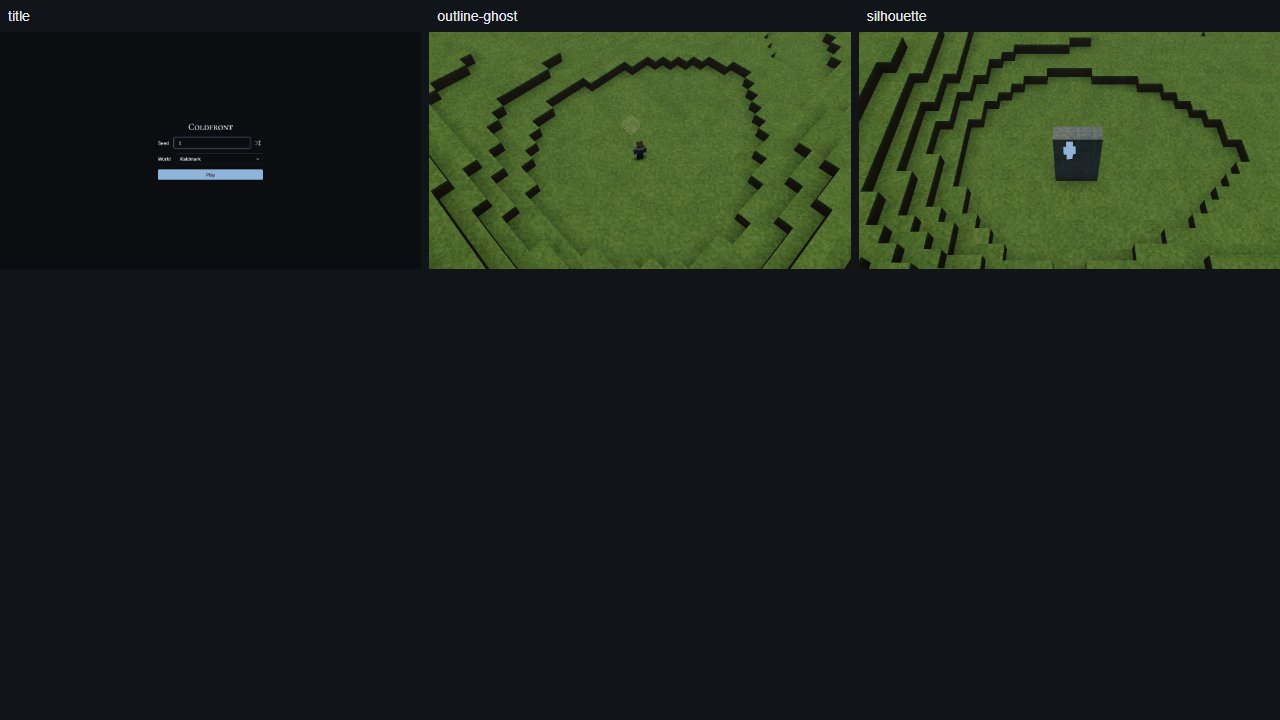
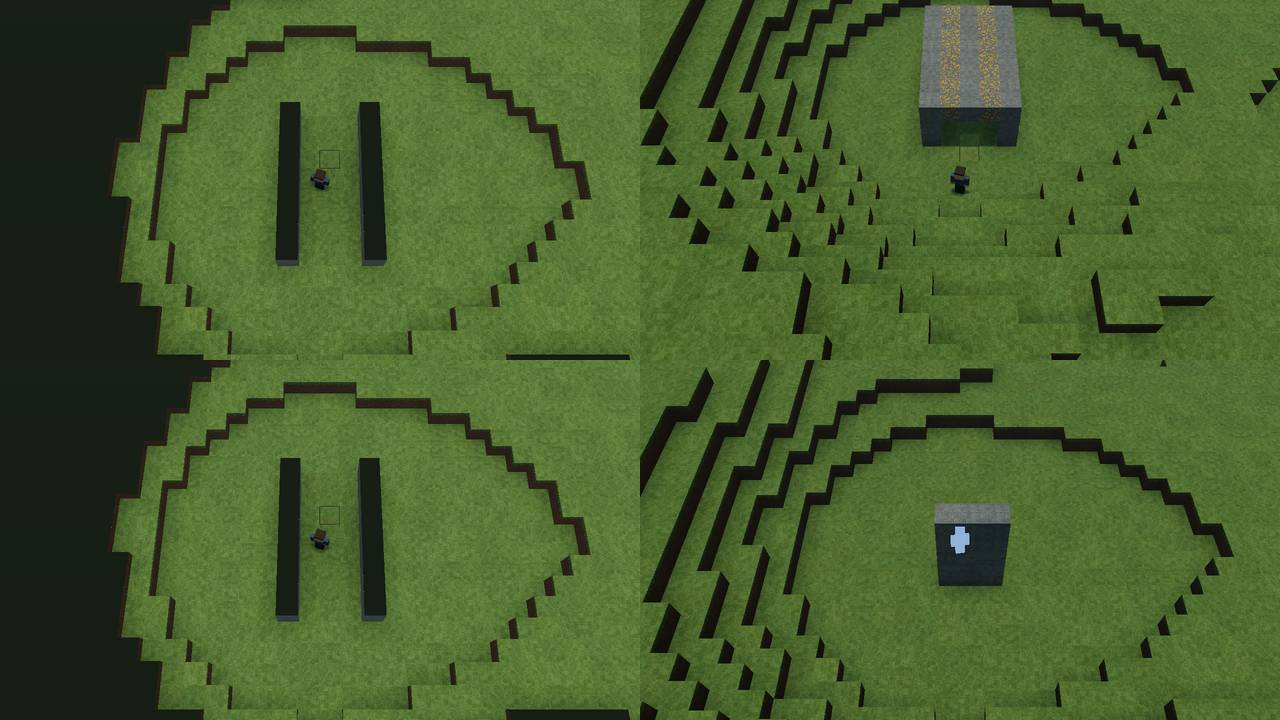
Report verified live camera optimization and cut behavior

diff --git a/docs/progress.md b/docs/progress.md
@@ -2,7 +2,7 @@
 
 **Current milestone:** 1 · The World
 **Current phase:** 1.3 · Terrain toolkit + Ibara (visual corrections and final release checks)
-**Playable link:** [dex.place/coldfront](https://dex.place/coldfront/) · [Interface gallery](https://dex.place/coldfront/?gallery) · [Release PR #18](https://github.com/dexnotavailable/coldfront/pull/18). Live game commit: `cc7b269` (generation 4, repeated coarse terrain lookup reuse; previous-generation edits remain stored separately). The unrelated `coldfront.pages.dev` site is not this game's preview.
+**Playable link:** [dex.place/coldfront](https://dex.place/coldfront/) · [Interface gallery](https://dex.place/coldfront/?gallery) · [Release PR #20](https://github.com/dexnotavailable/coldfront/pull/20). Live game commit: `f63d965` (generation 4, same-frame camera clearance reuse; current saved-world identity is unchanged). The unrelated `coldfront.pages.dev` site is not this game's preview.
 **Agent guide:** `AGENTS.md` (Codex and Claude Code both follow it). **Interface:** only what `docs/11-interface-catalogue.md` lists.
 
 ## Status board
@@ -11,7 +11,7 @@
 |---|---|---|
 | 1.1 Foundations | ✓ Complete, with recorded limits | 190 tests, check/build, clean Node22 build, complete UI lint and all-three-browser CI pass; accepted images/tools/save fixes published as d4c4c49. Public-site browser launch remains unavailable. |
 | 1.2 World plan | ✓ Complete, with recorded limits | Runtime, three-seed geography, atlas/slice, all-region travel and sixteen ungraded postcards accepted; 310 tests, check/build, complete UI lint, clean Node22 build and all-three-browser CI pass. Live as 18a975d. [Phase plan](plans/phase-1-2.md). |
-| 1.3 Terrain toolkit + Ibara | In progress | [Reviewed integration plan](plans/phase-1-3.md); generation `b7facdf…` is live as `cc7b269`. Repeated coarse lookup reuse improves the fixed cold dense comparison 9.05% / 9.93%, with repeat-request regressions retained. 863 tests, check/build, exact clean/site builds, fourteen-stage production journey, CI and public HTTP pass. No new formal score: two earlier primitive-control grades of 9 fail the unchanged ≤8 calibration gate. Earlier a82 scores 16/15 remain historical. Mandatory HELL/calibration/three-seed visual acceptance remains open. The last full benchmark belongs to b8/d3b3; six aggregate kernel metrics exceeded later targets there. |
+| 1.3 Terrain toolkit + Ibara | In progress | [Reviewed integration plan](plans/phase-1-3.md); unchanged generation `b7facdf…` is live as `f63d965`. Same-frame camera clearance reuse removes a duplicate query; it is not a verified Radeon FPS fix. 868 tests, check/build, exact clean/site builds, camera/cut fixture, fourteen-stage production journey, CI and public HTTP pass. Earlier cold dense comparisons improve 9.05% / 9.93%, with repeat regressions retained. No new formal score: two earlier primitive-control grades of 9 fail the unchanged ≤8 calibration gate. Earlier a82 scores 16/15 remain historical. Mandatory HELL/calibration/three-seed visual acceptance remains open. The last full benchmark belongs to b8/d3b3; six aggregate kernel metrics exceeded later targets there. |
 | 1.4 Far terrain | ☐ Specified, not implemented | LOD0–LOD6, full-height column tiles beyond LOD1, ~16 km maximum reach at altitude; acceptance includes at least 5 km of real terrain. 04 §13.5 / roadmap 1.4. |
 | 1.5 Kurogane + Selva | ☐ | |
 | 1.6 Fantasy regions | ☐ | |
@@ -23,7 +23,11 @@
 ## Current session
 **16 October 2026 · Codex · `codex/phase-1-3-camera-clearance-20261016`**
 
-**Camera clearance work in verification:** the camera normally queried terrain height twice at its final position in a single frame. The candidate reuses that same-frame result and still samples every adjusted position, including the sixteenth adjustment and 85-degree cap. All **868 tests / 103 files pass in 291.640 s**, as do the earlier 24 focused tests, client/tools types and final formatting. The initial formatting-only failure remains recorded. Four fresh HUD images pass root/independent Astra review and 327 hash checks, and their six evidence files are promoted. Final `check`, complete UI lint and build pass in **16.866 / 5.769 / 3.724 s**; UI lint reports 106 states, zero missing rows and 23 bindings. Native camera/cut and production verification remain pending. No cross-frame cache, camera rule, generator, view distance or rendering effect changes. This source is not yet live. [Measurement and limits](reports/camera-clearance-cost.md).
+**Camera clearance optimization published as `f63d965`:** the camera now reuses its final-position terrain height within one frame, retaining every adjusted-position query, the sixteenth-adjustment check and 85-degree cap. All **868 tests / 103 files pass in 291.640 s**, plus 24 focused tests, client/tools types and final formatting. Four fresh HUD images pass root/independent Astra review and 327 hash checks. Final `check`, complete UI lint and build pass in **16.866 / 5.769 / 3.724 s**; UI lint reports 106 states, zero missing rows and 23 bindings. No cross-frame cache, camera rule, generator, view distance or rendering effect changes. [Measurement and limits](reports/camera-clearance-cost.md).
+
+**Exact release proof:** the physical clean install/default build/site build pass in **6.302 / 3.402 / 2.016 s**, and [CI 38786571187](https://github.com/dexnotavailable/coldfront/actions/runs/38786571187) passes including all three browsers. The production journey passes all fourteen stages in a **272.096 s receipt interval**; root and fresh Astra open every original, and 850 hash comparisons plus 431 state/structure checks pass. Placement, immediate replay/reload persistence, breaking, movement, Ibara views, HELL-1/Escape and malformed-catalogue recovery pass. Zero errors, bad responses or external requests; four ReadPixels warnings and full cleanup are retained. The HELL-1 PNG is byte-identical to the preceding live release. Publication receipt **`76247e5d-f5f7-4a44-99da-9824e8eb172e`** and public readback at **19:11:35.886 UTC** confirm eleven hashes and isolation headers. Public-browser gameplay remains separately unavailable.
+
+**Camera/cut fixture passes after correcting its setup:** a no-input observation confirms the old tunnel fixture starts the avatar on its roof at Y9 because it supplies edits but no saved position. The corrected wrapper saves the same tunnel edits and a safe interior position through the ordinary persistence API before unchanged startup validation. The native assertions, timings, driver, geometry and product source remain unchanged. Its six opened images show cut7.5/tilt70 inside, the full roof on exit and the cut on reentry. Root/peer acceptance includes 249 hash checks; zero errors, four retained warnings and complete cleanup. All three failed setup attempts, the HTTP-header diagnosis and the spawn observer remain preserved.
 
 **A real synchronous cost, with a bounded scope:** at the saved Ibara Escape camera position with chunks deliberately absent, one real `ChunkStore.surface` call takes 506.514 ms and its exact repeat 2.675 ms; both return height24 and each scans183 voxels. The seed-1 plan is reused, generation workers are mocked and never requested, and no GPU is involved. This demonstrates a CPU stall in that forced fallback condition. It does not establish ordinary browser incidence, Radeon FPS, or that same-frame reuse fixes the large first-call cost. Surface currently prepares its point area even when chunks are resident; the existing conservative-bound API is a possible later exact alternative, but its own feature preparation cost remains unmeasured.
 
@@ -378,8 +382,8 @@ The following records describe the completed phase 1.1 tooling and acceptance.
 
 ## Known issues and next
 
-- Current live release **cc7b269 / generation b7facdf** passes 863 tests, check/build, exact clean/site builds, CI, the fourteen-stage production journey and public HTTP hashes/headers. Phase 1.3 remains incomplete: current formal calibration is invalid; the older a82 scores 16/15 remain historical. The compiled cold-loading comparison improves, while repeated requests regress; no browser/FPS fix is established. The last complete regional benchmark and three-seed terrain reports remain explicitly bound to the earlier source.
-- Next: identify a source-supported correction to visible thorn shape or grounding, with a discriminating local proof before a full-world render. The [basalt-layer trial](reports/basalt-layer-study.md), [column-filter trial](reports/column-candidate-study.md) and [caldera-gully trial](reports/caldera-gullies-study.md) are parked. The isolated camera fallback tested seven additional views but selected the original; it is parked, without wider caps or a seed-3 repeat. Resolve calibration interpretation before new formal terrain acceptance. Two control grades fail at 9/20; both are preserved, and source/receipt audit finds the fixture conformant. No additional reviewers for that unchanged candidate, threshold change or terrain-bar change follows. The full-sky, dry-rim and scree directions remain parked. Far terrain stays phase 1.4; finite loading can expose tips whose parents are outside the loaded columns.
+- Current live release **f63d965 / unchanged generation b7facdf** passes 868 tests, check/build, exact clean/site builds, CI, camera/cut fixtures, the fourteen-stage production journey and public HTTP hashes/headers. Phase 1.3 remains incomplete: current formal calibration is invalid; the older a82 scores 16/15 remain historical. Same-frame camera reuse is verified; a browser/Radeon FPS fix is not. The measured 506 ms cold fallback remains unresolved. An edit-only across-frame cache is not selected: exposed mutable maps and fractional cut heights require a stronger invalidation contract. The last complete regional benchmark and three-seed terrain reports remain bound to their earlier source.
+- Next: validate one frozen yaw-only composition proposal motivated by the actual left-clipped hooked owner, using the unchanged ordinary gates. It permits one Normal capture only if validation passes; no wider camera search or generator tweak follows a failure. The [root-grounding](reports/main-root-grounding-study.md), [basalt-layer](reports/basalt-layer-study.md), [column-filter](reports/column-candidate-study.md) and [caldera-gully](reports/caldera-gullies-study.md) trials remain parked. The earlier seven-view camera fallback remains closed. Resolve calibration interpretation before new formal terrain acceptance. Two control grades fail at 9/20; both are preserved, and source/receipt audit finds the fixture conformant. No additional reviewers for that unchanged candidate, threshold change or terrain-bar change follows. The full-sky, dry-rim and scree directions remain parked. Far terrain stays phase 1.4; finite loading can expose tips whose parents are outside the loaded columns.
 - The current main-world save identity is `4:b7facdfdcb615938ecfc1e693c6b7cbe16494ca1a80b2c67ef7e59689b261794`. Earlier records remain stored separately. The current release journey verifies placement/breaking and persistence through replay/reload. Main/test worlds, seeds and discovery memory remain separate; Clear my edits affects only the current world's edits.
 - The watchtower, cold smithy and Hearthlands house are reusable library content, with accepted browser evidence and no live registration. The house and smithy include their reviewed presentation parts. The wolf horizontal stance correction remains isolated; full contact behaviour, terrain adaptation and gameplay integration remain open. The giant-tree gentle-slope study and single-root burial correction pass bounded appearance review; the preserved King and second giant tree retain their earlier study boundaries. None is live integrated content.
 - GPU uploads currently cap eight chunk results per frame, rather than eight individual meshes. CPU mesh arrays remain for context restoration; freeing them after upload is still pending. The out-only cold diagnostic now records complete worker-stage/cache timings; the normal postcard receipt still reports total duration.
@@ -389,14 +393,14 @@ The following records describe the completed phase 1.1 tooling and acceptance.
 - The build reports a large main chunk (about 1,056 kB, 281 kB gzip); optimization follows measurements. The current check has 79 warnings and two information notes, with no errors. Most warnings are controlled test/gallery assertions and motion CSS overrides.
 - The documented Pages name was corrected: coldfront.pages.dev belongs to another website. Ordinary build remains compatible with Pages; the actual release uses the owner's existing site mount.
 
-## Try this (live verified increment `cc7b269`)
+## Try this (live verified increment `f63d965`)
 
 1. Open [COLDFRONT](https://dex.place/coldfront/), choose **Kaldmark** and press **Play**. Walk with **W A S D**; zoom with the wheel, turn with **← →**, and tilt with **↑ ↓**.
 2. Double-tap **Space** to fly. Use **Space** to rise and **Shift** to descend. Double-tap **W** to sprint when playing in a window.
 3. Choose a hotbar block with **1–9**. Left-click to break, right-click to place; open the block palette with **E**.
 4. Dig below the surface to try the automatic overhead cut. Press **F3** for debug information and **F4** for time of day, fog, shadows and fly speed.
 5. Press **Esc** to pause or return to the title; **F2** saves a screenshot and **F11** toggles fullscreen. Browse the [interface gallery](https://dex.place/coldfront/?gallery).
-6. Leave a placed block in the world, reload, and press **Play** with the same seed to check your saved edits. This release uses a new save identity for the generator-source change, even though the compared terrain is identical; previous-generation edits remain stored separately.
+6. Leave a placed block in the world, reload, and press **Play** with the same seed to check your saved edits. This camera-only release keeps the current saved-world identity; your edits from the preceding live build remain available. Older-generation records remain stored separately.
 7. In **F4 → Go to region**, visit **Ibara** and compare **Normal**, **Clay** and **Features**. Open **F4 → Go to postcard** and choose **Ibara 2** for the forest or **Ibara 3** for the caldera. Look for the clearer horizontal rock layers on broad thorn faces, alongside the existing forks. Loading is slow; the caldera foreground and roots still need work. Press **Escape** to return to the overhead view.
 8. Open the map with **M**, choose a spot and travel. In **F4**, use **Go to region** to compare Shirogane, Kurogane and the Sundered Isles. Discovery cards appear once per saved world identity. Switch to the test world from the title for the smaller sandbox.
 

diff --git a/docs/reports/camera-clearance-cost.md b/docs/reports/camera-clearance-cost.md
@@ -1,12 +1,12 @@
 # Camera clearance cost
 
-The camera performs an avoidable repeated terrain-height query in a normal frame. A small candidate reuses that final-position measurement within the same camera step. It is under verification and is not yet published.
+The camera now reuses its final-position terrain-height measurement within the same camera step, avoiding a repeated query in a normal frame. This is published as `f63d9659525dd09e8db4369d5edf4becb04a1458` at [dex.place/coldfront](https://dex.place/coldfront/).
 
 ## Source behavior and preservation
 
 `OverheadCamera.step` previously called `surface` in the clearance-loop condition and then again at the same final position for its vertical lift. A normal no-adjustment frame therefore made two identical calls. The sixteen-adjustment exit is different: its final position still needs a new measurement.
 
-The candidate samples its initial pose once, samples each adjusted pose once and uses the last height for the final lift. No height survives the frame. The sixteen-adjustment limit, 85-degree tilt cap, six-metre clearance, focus lift, requested distance, automatic cut and all motion curves remain intact. The capped path still performs seventeen queries; a normal clear frame performs one instead of two.
+The change samples its initial pose once, samples each adjusted pose once and uses the last height for the final lift. No height survives the frame. The sixteen-adjustment limit, 85-degree tilt cap, six-metre clearance, focus lift, requested distance, automatic cut and all motion curves remain intact. The capped path still performs seventeen queries; a normal clear frame performs one instead of two.
 
 Five new behavior tests cover a clear pose, a ledge requiring adjustment, the iteration limit, the tilt cap and changed ground/cut on subsequent frames. Together with the existing chunk-store tests, **24 tests pass** in2.431s; client/tools types pass in2.798/5.819s. A wrapping-only formatter failure is preserved and corrected. Final format passes. Isolated evidence is in `D:/Dex/Temp/coldfront-camera-clearance-6993558/out/camera-clearance/root-validation/`.
 
@@ -31,8 +31,22 @@ The measurement demonstrates blocking CPU work under the **forced missing-chunk 
 
 The integrated source passes **868 tests across 103 files in 291.640 s**. Four fresh native/derived HUD images have been opened by root and independent Astra: the target outline, faint Sand placement ghost and blue avatar silhouette remain visible. All327 independent hash checks pass, covering94 source files per case and the native, candidate and prior evidence. Six evidence files are promoted. Four ReadPixels warnings remain; capture errors are zero. Evidence: `out/phase13/camera-clearance-hud-prep/runs/2026-10-15T18-22-32-584Z-eab935/`.
 
-The first unchanged smoke/drive invocation passes smoke and captures outline/flight, then times out waiting for a tunnel cut. That failed46.777s run is retained under `out/phase13/camera-clearance-release/drive-runs/2026-10-15T18-19-48-760Z/`. Root opens its three images. Source inspection identifies a setup mismatch: ordinary `run.ts` serves the UI shell, whereas only `dev/harness.ts` reads the `scene` query and seeds the tunnel through persistence. No camera failure is established by that missing fixture. A separate wrapper is being prepared to serve the existing harness and run the unchanged drive assertions with new output paths; no old evidence is overwritten.
+The first unchanged smoke/drive invocation passes smoke and captures outline/flight, then times out waiting for a tunnel cut. That failed 46.777 s run is retained under `out/phase13/camera-clearance-release/drive-runs/2026-10-15T18-19-48-760Z/`. Root opens its three images. Source inspection identifies a setup mismatch: ordinary `run.ts` serves the UI shell, whereas only `dev/harness.ts` reads the `scene` query and seeds the tunnel through persistence. No camera failure is established by that missing fixture. A separate wrapper then serves the existing harness and runs the unchanged drive assertions with new output paths; no old evidence is overwritten.
 
-The corrected harness route then fails its unchanged graphics preflight before producing an image; that separate V2 failure is preserved. An independent source review and a separate HTTP-only probe identify the missing response headers: the custom harness HTML has neither COOP nor COEP, while the ordinary page has both. Vite's later header middleware is bypassed by the early custom response. Both V2 browser and server close. A narrow response-header correction is being prepared; neither failure authorizes relaxing the camera or graphics assertions.
+The corrected harness route then fails its unchanged graphics preflight before producing an image; that separate V2 failure is preserved. An independent source review and a separate HTTP-only probe identify the missing response headers: the custom harness HTML has neither COOP nor COEP, while the ordinary page has both. Vite's later header middleware is bypassed by the early custom response. Both V2 browser and server close. A narrow response-header correction resolves that precondition; neither failure authorizes relaxing the camera or graphics assertions.
 
-Final `check`, complete UI lint and build pass in **16.866 / 5.769 / 3.724 s**. UI lint reports 106 states, zero missing current rows and 23 bindings. Camera/cut fixture acceptance, the exact production journey and clean-checkout/release checks remain open before publication. Generator data and saved-world identity are unchanged.
+The next attempt passes its headers but still waits for a cut that cannot activate: a separate no-input observer confirms feet at Y9 on top of the Y8 roof, with 72 legacy edits and no preferred pose. Production startup correctly chose the edited surface. V4 corrects only the fixture bootstrap, saving the unchanged tunnel edits and safe floor pose under the same full test identity before importing the unchanged harness. The native destination still validates that pose; no body/camera setter, changed driver assertion, altered wait or geometry change is used.
+
+V4 passes all six native captures in a **25.202 s wrapper interval**. Root and independent Astra open every image. Actual endpoints show feetY6/cut7.5/tilt70 inside, cutnull/tilt55 outside, then cut7.5/tilt70 on reentry. The wall silhouette remains active without a cut. All 249 hash checks match, including 192 sources, 37 preserved prior files and 13 native outputs. Application errors are zero, four ReadPixels warnings remain, and browser/server close. This is endpoint and input-fixture proof, not continuous playback or FPS. All failed V1–V3 evidence remains intact under `out/phase13/camera-clearance-release/`; the passing run is `drive-v4/runs/2026-10-15T18-50-49.323Z-4dadc3f6-f982-491f-a1c5-829b6295d0a3/`.
+
+[Opened contact sheet](../postcards/wip/ui.jpg): upper left is inside the tunnel, upper right is outside, lower left is reentry, and lower right is the silhouette. The four full frames are resized equally with no crop; the authoritative native PNGs remain preserved. The 1280×720 JPEG is 105,573 bytes and keeps the complete WIP image set at 961,859 bytes, below its 1 MB limit. An earlier JPEG85 encoding exceeded that unchanged limit and wrote no replacement; the final report sheet uses JPEG70.
+
+## Publication and remaining limits
+
+Final `check`, complete UI lint and build pass in **16.866 / 5.769 / 3.724 s**. UI lint reports 106 states, zero missing current rows and 23 bindings. The exact clean checkout independently passes install/default build/site build in **6.302 / 3.402 / 2.016 s**. [CI 38786571187](https://github.com/dexnotavailable/coldfront/actions/runs/38786571187) passes, including three-browser golden hashes.
+
+The exact production fourteen-stage journey passes in a **272.096 s receipt interval**. Root and fresh Astra open all fourteen originals; 850 hash checks and 431 state/structure comparisons match. Movement, placement/breaking, immediate replay/reload persistence, Ibara modes, HELL-1 travel/Escape and malformed-catalogue continued flight pass. There are zero errors, bad responses or external requests; four ReadPixels warnings and complete cleanup remain recorded. The fixed HELL-1 image is byte-identical to the previous live release. Evidence: `out/phase13/camera-clearance-release/runs/2026-10-15T18-59-59.013Z/` and its packet's `independent-review/`.
+
+Publication receipt `76247e5d-f5f7-4a44-99da-9824e8eb172e` and public HTTP readback at **2026-10-15T19:11:35.886Z** verify eleven public file hashes and both isolation headers. The public browser remains separately unavailable. Generator data and saved-world identity are unchanged.
+
+The 506 ms forced-fallback first call is still an open performance concern; no Radeon FPS fix is claimed. A later source audit rejects an edit-only across-frame height cache under the current mutable map/buffer contract, and identifies fractional cut clamping as another correctness condition. No such cache is included here. Milestone 1 phase 1.3 terrain acceptance remains open.
